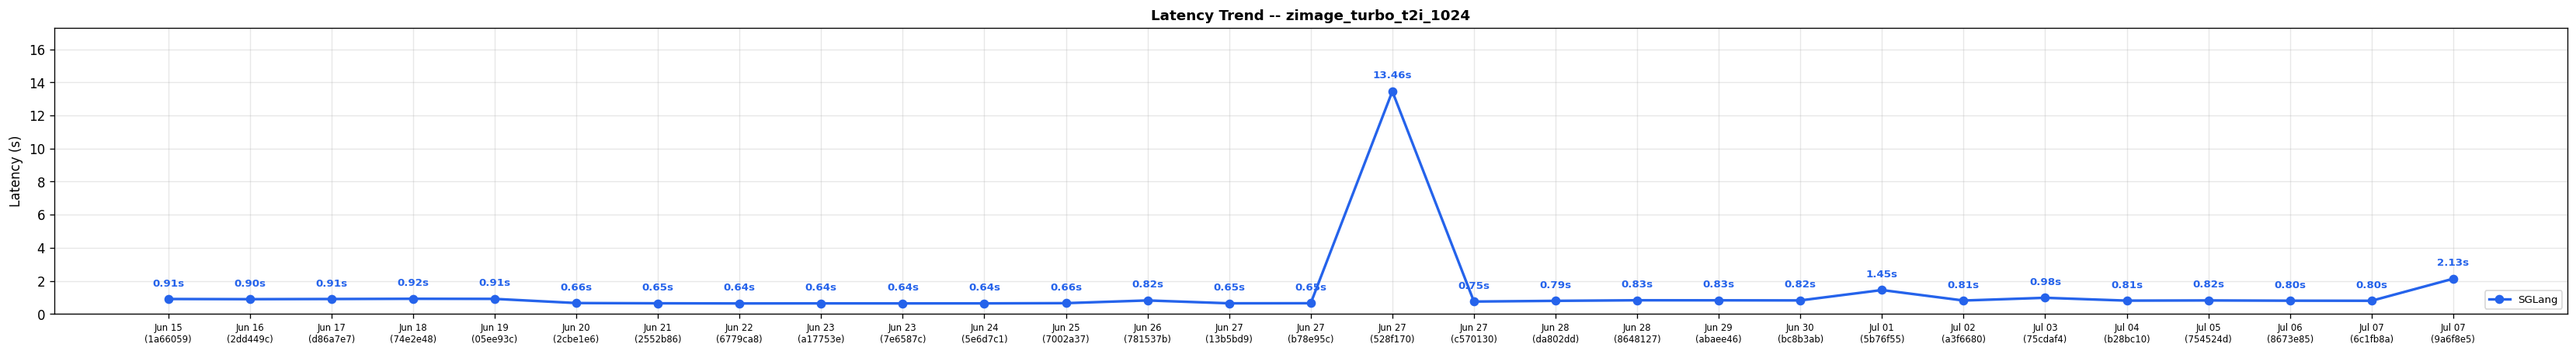
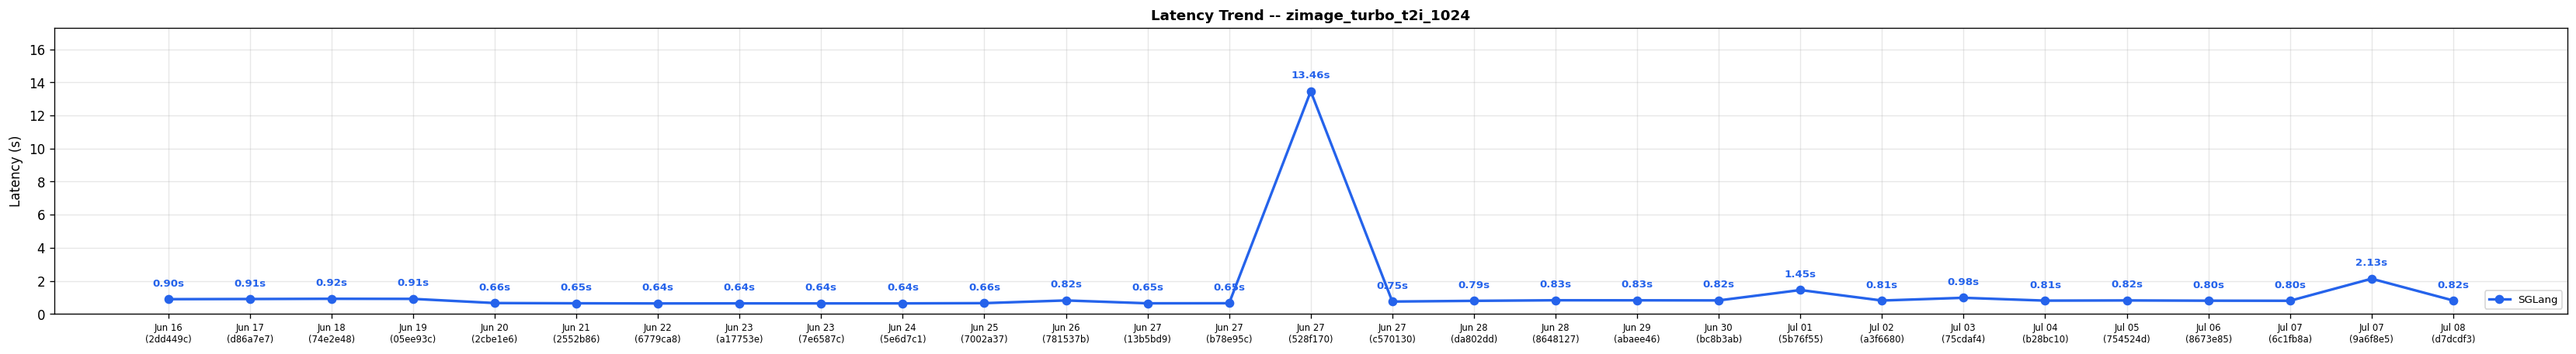
Diffusion comparison results for run 28909052814 (#707)

diff --git a/diffusion-comparisons/dashboard.md b/diffusion-comparisons/dashboard.md
@@ -1,28 +1,29 @@
 # SGLang-Diffusion Nightly Performance Dashboard
 
-*Generated: Jul 07 | Commit: `9a6f8e5`*
+*Generated: Jul 08 | Commit: `d7dcdf3`*
 
 > [!WARNING]
 > **Performance Regression Detected**
 >
-> - **zimage_turbo_t2i_1024** (sglang): 0.80s -> 2.13s (+167.0%)
+> - **qwen_image_2512_t2i_1024** (sglang): 8.77s -> 11.00s (+25.4%)
+> - **ltx2.3_twostage_ti2v_2gpus** (sglang): 13.07s -> 16.06s (+22.9%)
 
 
 ## SGLang-Diffusion Performance
 
 | Model | Risk | sglang (s) |
 |-------|------|---------|
-| FLUX.1-dev | ✅ | **4.82** |
-| FLUX.2-dev | ✅ | **14.36** |
-| Qwen-Image-2512 | ✅ | **8.77** |
-| Qwen-Image-Edit-2511 | ✅ | **15.25** |
-| Z-Image-Turbo | ⚠ | **2.13** |
-| Wan2.2-T2V-A14B-Diffusers | ✅ | **210.69** |
-| Wan2.2-TI2V-5B-Diffusers | ✅ | **64.24** |
-| LTX-2.3 | ✅ | **13.07** |
-| ideogram-4-fp8 | ✅ | **5.27** |
-| Cosmos3-Super | ✅ | **115.38** |
-| Wan2.2-I2V-A14B-Diffusers | ✅ | **203.70** |
+| FLUX.1-dev | ✅ | **4.85** |
+| FLUX.2-dev | ✅ | **14.45** |
+| Qwen-Image-2512 | ⚠ | **11.00** |
+| Qwen-Image-Edit-2511 | ✅ | **15.45** |
+| Z-Image-Turbo | ✅ | **0.82** |
+| Wan2.2-T2V-A14B-Diffusers | ✅ | **210.76** |
+| Wan2.2-TI2V-5B-Diffusers | ✅ | **65.22** |
+| LTX-2.3 | ⚠ | **16.06** |
+| ideogram-4-fp8 | ✅ | **5.34** |
+| Cosmos3-Super | ✅ | **116.39** |
+| Wan2.2-I2V-A14B-Diffusers | ✅ | **204.66** |
 
 ### Latency Trend: flux1_dev_t2i_1024
 
@@ -83,6 +84,7 @@
 
 | Date | Commit | flux1_dev_t2i_1024 (s) | flux2_dev_t2i_1024 (s) | qwen_image_2512_t2i_1024 (s) | qwen_image_edit_2511 (s) | zimage_turbo_t2i_1024 (s) | wan22_t2v_a14b_720p (s) | wan22_ti2v_5b_720p (s) | ltx2.3_twostage_ti2v_2gpus (s) | ideogram4_fp8_t2i_2gpu (s) | cosmos3_super_t2v_2gpu (s) | wan22_i2v_a14b_720p (s) | Trend |
 |------|--------|---------|---------|---------|---------|---------|---------|---------|---------|---------|---------|---------|-------|
+| Jul 08 | `d7dcdf3` | 4.85 | 14.45 | 11.00 | 15.45 | 0.82 | 210.76 | 65.22 | 16.06 | 5.34 | 116.39 | 204.66 | :left_right_arrow:  :left_right_arrow:  :arrow_up:  :left_right_arrow:  :arrow_down:  :left_right_arrow:  :left_right_arrow:  :arrow_up:  :left_right_arrow:  :left_right_arrow:  :left_right_arrow: |
 | Jul 07 | `9a6f8e5` | 4.82 | 14.36 | 8.77 | 15.25 | 2.13 | 210.69 | 64.24 | 13.07 | 5.27 | 115.38 | 203.70 | :left_right_arrow:  :left_right_arrow:  :left_right_arrow:  :left_right_arrow:  :arrow_up:  :left_right_arrow:  :left_right_arrow:  :left_right_arrow:  :left_right_arrow:  :left_right_arrow:  :left_right_arrow: |
 | Jul 07 | `6c1fb8a` | 4.81 | 14.36 | 8.78 | 15.28 | 0.80 | 210.67 | 64.22 | 13.06 | 5.31 | 115.39 | 203.73 | :arrow_down:  :left_right_arrow:  :arrow_down:  :left_right_arrow:  :left_right_arrow:  :left_right_arrow:  :left_right_arrow:  :left_right_arrow:  :left_right_arrow:  :left_right_arrow:  :left_right_arrow: |
 | Jul 06 | `8673e85` | 5.12 | 14.46 | 9.34 | 15.43 | 0.80 | 210.67 | 65.18 | 13.05 | 5.33 | 116.32 | 205.76 | :arrow_up:  :left_right_arrow:  :arrow_down:  :left_right_arrow:  :left_right_arrow:  :left_right_arrow:  :left_right_arrow:  :arrow_down:  :left_right_arrow:  :left_right_arrow:  :left_right_arrow: |
@@ -111,14 +113,14 @@
 | Jun 19 | `05ee93c` | 6.99 | 24.86 | 12.81 | 23.75 | 0.91 | 209.14 | 65.23 | 15.06 | N/A | N/A | 204.65 | :left_right_arrow:  :left_right_arrow:  :left_right_arrow:  :left_right_arrow:  :left_right_arrow:  :left_right_arrow:  :left_right_arrow:  :arrow_down:    :left_right_arrow: |
 | Jun 18 | `74e2e48` | 6.93 | 24.48 | 12.71 | 23.57 | 0.92 | 209.03 | 64.21 | 24.08 | N/A | N/A | 204.67 | :left_right_arrow:  :left_right_arrow:  :left_right_arrow:  :left_right_arrow:  :left_right_arrow:  :left_right_arrow:  :left_right_arrow:  :arrow_up:    :left_right_arrow: |
 | Jun 17 | `d86a7e7` | 6.99 | 24.66 | 12.85 | 23.70 | 0.91 | 211.01 | 65.22 | 20.08 | N/A | N/A | 206.64 | :left_right_arrow:  :left_right_arrow:  :left_right_arrow:  :left_right_arrow:  :left_right_arrow:  :left_right_arrow:  :left_right_arrow:  :arrow_up:    :left_right_arrow: |
-| Jun 16 | `2dd449c` | 6.91 | 24.46 | 12.71 | 23.52 | 0.90 | 210.42 | 64.23 | 18.07 | N/A | N/A | 205.75 | :arrow_down:  :left_right_arrow:  :left_right_arrow:  :left_right_arrow:  :left_right_arrow:  :left_right_arrow:  :left_right_arrow:  :arrow_down:    :left_right_arrow: |
-| Jun 15 | `1a66059` | 7.10 | 24.61 | 12.75 | 23.64 | 0.91 | 210.43 | 65.21 | 31.11 | N/A | N/A | 206.72 | -- |
+| Jun 16 | `2dd449c` | 6.91 | 24.46 | 12.71 | 23.52 | 0.90 | 210.42 | 64.23 | 18.07 | N/A | N/A | 205.75 | -- |
 
 > [!CAUTION]
 > **Action Required — Performance Alert**
 >
 > The following cases need attention:
-> - zimage_turbo_t2i_1024: SGLang regression +164.2% vs 3-run avg (2.13s vs 0.81s)
+> - qwen_image_2512_t2i_1024: SGLang regression +22.7% vs 3-run avg (11.00s vs 8.96s)
+> - ltx2.3_twostage_ti2v_2gpus: SGLang regression +23.0% vs 3-run avg (16.06s vs 13.06s)
 
 
 ---
